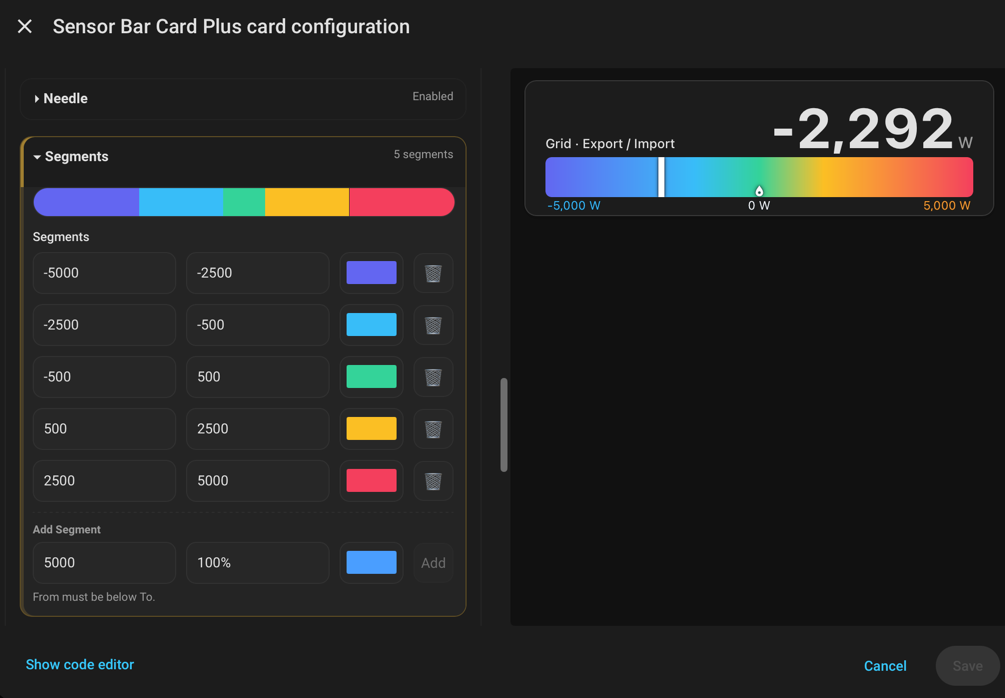
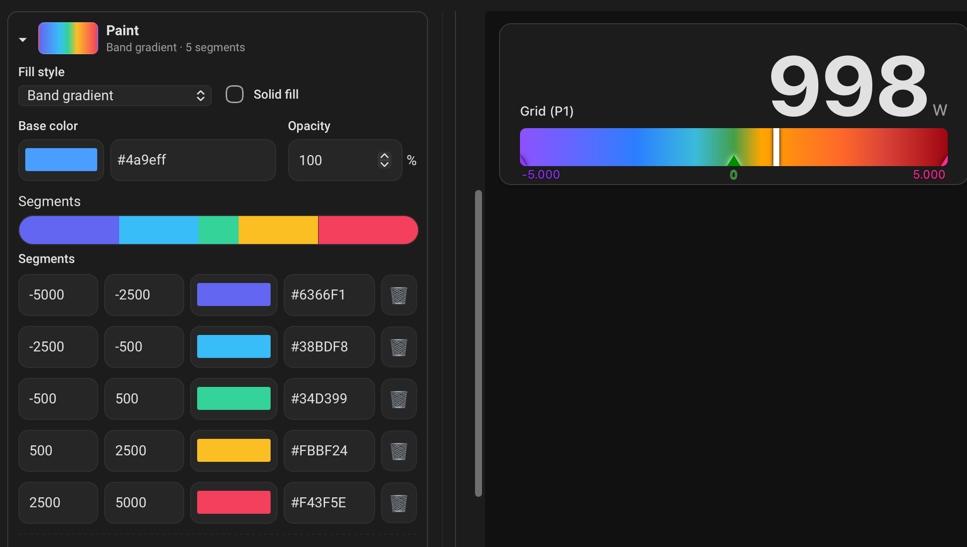
docs: refresh v1.11 showcase and feature screenshots

diff --git a/README.md b/README.md
@@ -9,7 +9,7 @@
 
 Sensor Bar Card Plus (SBCP) presents numeric sensor values as configurable bars or gauges in Home Assistant dashboards. Use it as a standalone card or as a native Card Feature inside a Tile card. It is useful when a value needs visual context: its scale, operating range, target, historic extrema, or relationship to a neutral point.
 
-![Sensor Bar Card Plus showcase](images/showcase-v1.10.png)
+![Sensor Bar Card Plus showcase](images/showcase-v1.11.png)
 
 Both presentations support structured YAML, animated reveal fills, Needle gauges, five fill styles, dynamic Scales, independent Scale and Bar Direction, Baseline fill origins, directional Target and Baseline Paint, Peak/Floor and Reference Markers, and a Visual Editor. Universal Paint gives the Bar and each overlay the same fill controls; named Paint presets can be shared by cards on one dashboard. The standalone card also supports multiple entities, attribute values, tap, hold and double-tap actions, five label layouts including Hero, per-entity overrides, and responsive row content.
 
@@ -234,9 +234,19 @@ Target, Baseline and Generic Reference Marker positions use a direct **Value** f
 
 Target, Peak, Floor, Generic Reference Markers, and individual generic markers have collapsible editor groups. Baseline is configured under **Bar Appearance**; entity-level Baseline remains with the standalone entity overrides. The editor keeps its local disclosure state out of saved YAML. You can continue editing the same structured configuration manually at any time.
 
-![Standalone Visual Editor screenshot](images/visual-editor.png)
+### Universal Paint
 
-This screenshot predates the v1.11 Universal Paint, preset-management, and directional Target controls; current editor behavior is described above.
+Configure colors, gradients, segments, opacity, and more
+using the Visual Editor, with a live preview.
+
+![Universal Paint editor](images/visual-editor.png)
+
+### Shared Paint Presets
+
+Create named Paint presets and share them across Cards
+on the same Home Assistant dashboard.
+
+![Shared Paint Presets](images/visual-editor-presets.png)
 
 ## Responsive behavior and data details
 

diff --git a/docs/examples.md b/docs/examples.md
@@ -466,6 +466,12 @@ Move the reading below, equal to, and above the live Baseline to see the directi
 
 ## Universal Paint and presets
 
+*Three named Paint presets applied to the same Grid sensor. The editor displays each preset's resolved Paint while the live preview shows its appearance.*
+
+![Paint Preset 1](images/examples/paint-boombox.png)
+![Paint Preset 2](images/examples/paint-milkacow.png)
+![Paint Preset 3](images/examples/paint-mutedmint.png)
+
 Universal Paint gives the Bar and its Baseline/Target overlays the same fill controls. Standalone Cards can each define `preset_library.paint`; all contributed libraries are merged by exact name across the current dashboard, including other views. The following valid dashboard fragment intentionally defines `Thermal` twice to demonstrate a conflict. This is a conflict example, not a recommended production configuration:
 
 ```yaml
@@ -538,6 +544,23 @@ baseline:
 ```
 
 ### Above and Below Target Paint
+
+The following comparison demonstrates directional Target Paint
+in Fill and Needle modes.
+
+![Directional Target Paint: Above and Below Target in Fill and Needle modes](images/examples/target-directional-paint.png)
+
+The left column demonstrates Above Target Paint, while the
+right column demonstrates Below Target Paint.
+
+- **Fill mode (top):** Target Paint affects only the revealed
+  portion of the bar beyond the violated threshold.
+- **Needle mode (bottom):** The full Paint rail remains visible,
+  with directional Target Paint applied between the threshold
+  and the current reading.
+
+In both modes, directional Paint activates only when the
+reading strictly violates its threshold.
 
 A shared Target threshold can be used for both directions, or each direction can define its own threshold and marker. This example uses independent limits. Paint activates only on strict violation; at equality neither layer is active. In Fill mode, only the occupied/revealed region intersecting the violating side is painted. In Needle mode, only the interval from threshold to current reading is painted.
 
